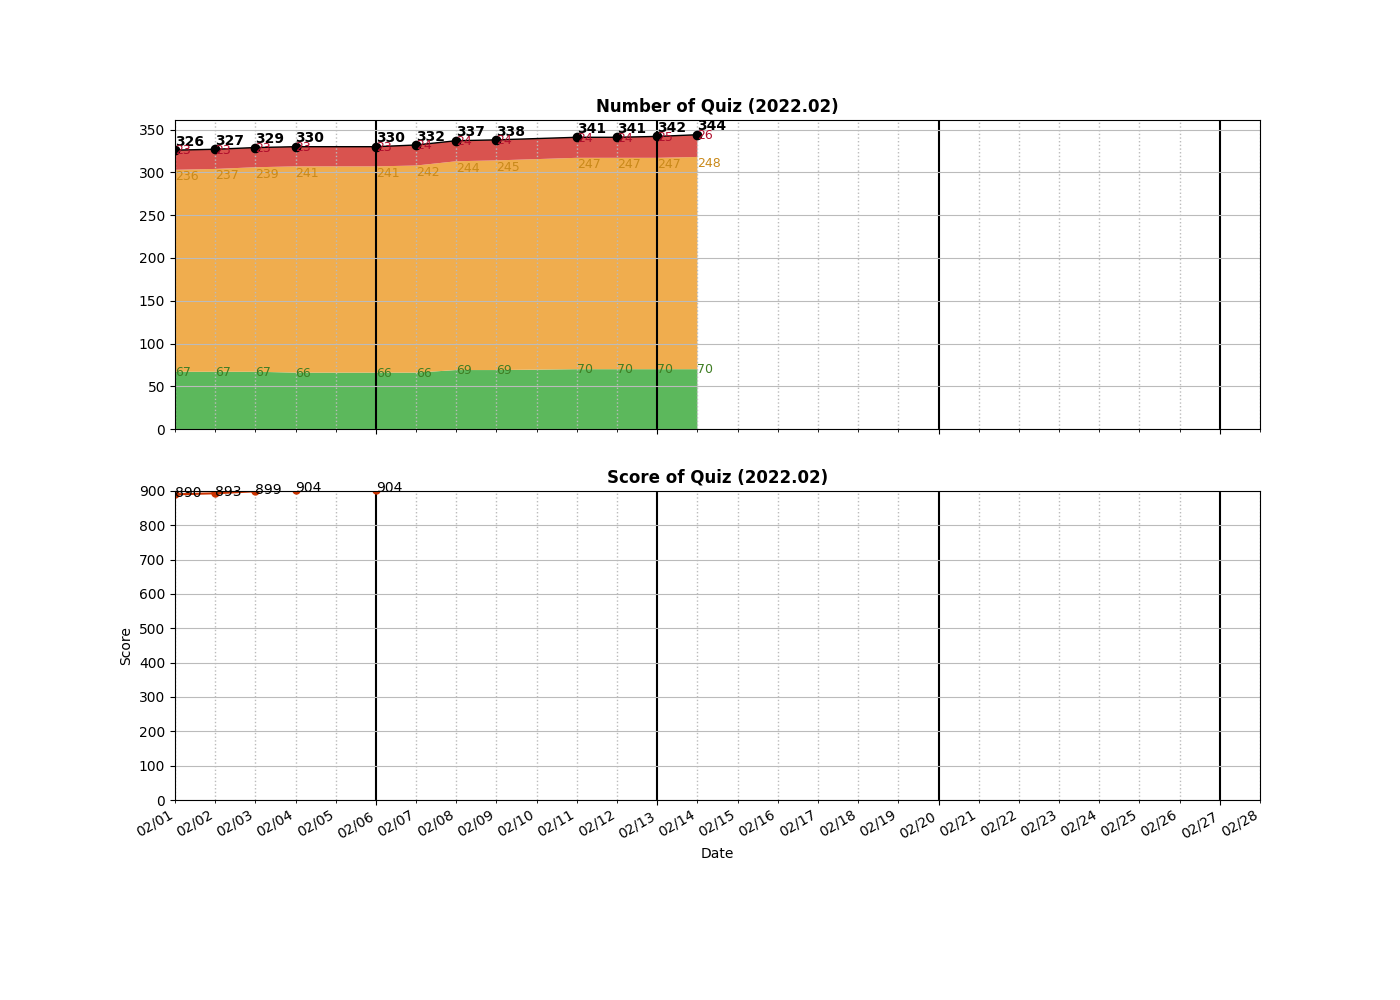
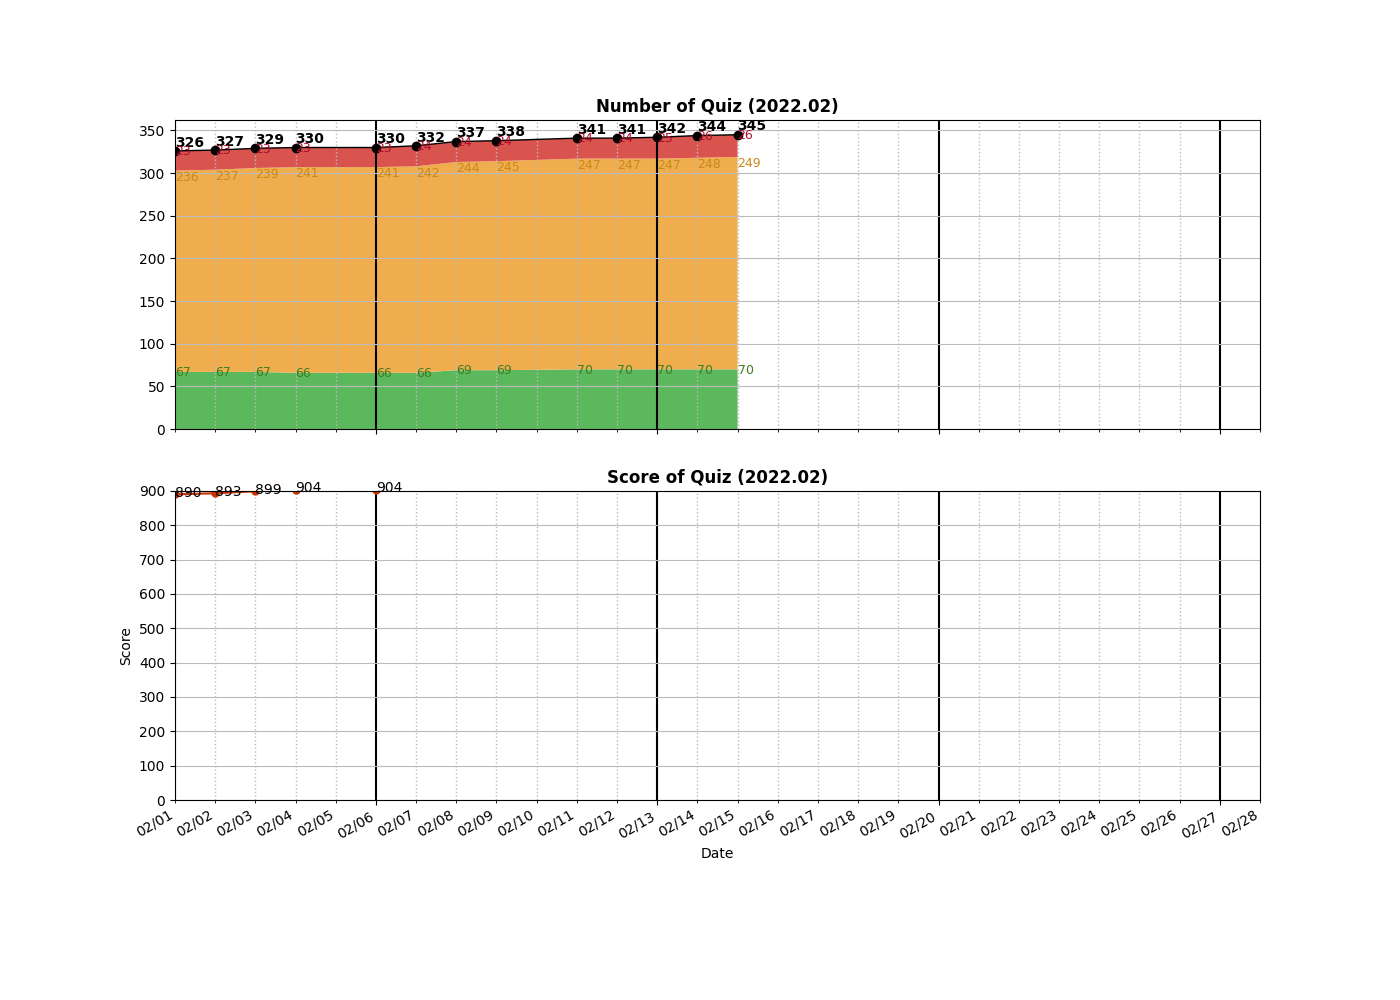
Added __0045__Jump Game II.py

Changed region(s): [[0.0921, 0.124, 0.5529, 0.434]]

diff --git a/algo/DP/__0045__Jump Game II.py b/algo/DP/__0045__Jump Game II.py
@@ -1,0 +1,12 @@
+class Solution:
+    
+    #2022/02/14
+    #DP[O(n2): 5%]
+    def jump(self, nums: List[int]) -> int:
+        dp = [inf] * len(nums)
+        dp[0] = 0
+        for i, v in enumerate(nums):
+            for j in range(1, v+1):
+                if i + j < len(nums):
+                    dp[i+j] = min(dp[i+j], dp[i] + 1)
+        return dp[-1]

diff --git a/README.md b/README.md
@@ -103,6 +103,7 @@ algo
 ├── DP
 │   ├── __0010__Regular Expression Matching.py
 │   ├── __0044__Wildcard Matching.py
+│   ├── __0045__Jump Game II.py
 │   ├── __0055__Jump Game.py
 │   ├── __0062__Unique Paths.py
 │   ├── __0063__Unique Paths II.py
@@ -134,7 +135,6 @@ algo
 │   ├── __0935__Knight Dialer.py
 │   ├── __1014__Best Sightseeing Pair.py
 │   ├── __1025__Divisor Game.py
-│   ├── __1029__Two City Scheduling.py
 │   ├── __1048__Longest String Chain.py
 │   ├── __1049__Last Stone Weight II.py
 │   ├── __1130__Minimum Cost Tree From Leaf Values.py
@@ -171,6 +171,8 @@ algo
 │   ├── __1319__Number of Operations to Make Network Connected.py
 │   ├── __1557__Minimum Number of Vertices to Reach All Nodes.py
 │   └── __2093__Minimum Cost to Reach City With Discounts.py
+├── Greedy
+│   └── __1029__Two City Scheduling.py
 ├── HashMap
 │   ├── __0001__Two Sum.py
 │   ├── __0049__Group Anagrams.py
@@ -386,7 +388,7 @@ algo
 └── _Template
     └── BinarySearch.py
 
-28 directories, 357 files
+29 directories, 358 files
 
 =====================================
 ============= Local Repo ============
@@ -420,6 +422,7 @@ __0039__Combination Sum.py
 __0040__Combination Sum II.py
 __0042__Trapping Rain Water.py
 __0044__Wildcard Matching.py
+__0045__Jump Game II.py
 __0046__Permutations.py
 __0047__Permutations II.py
 __0048__Rotate Image.py
@@ -736,7 +739,7 @@ __2154__Keep Multiplying Found Values by Two.py
 __2155__All Divisions With the Highest Score of a Binary Array.py
 __2156__Find Substring With Given Hash Value.py
 =====================================
-Num of Python Practice:  344
+Num of Python Practice:  345
 
 
 =====================================
@@ -771,6 +774,7 @@ Num of Python Practice:  344
  0040 Combination Sum II
  0042 Trapping Rain Water
  0044 Wildcard Matching
+ 0045 Jump Game II
  0046 Permutations
  0047 Permutations II
  0048 Rotate Image
@@ -1088,10 +1092,10 @@ Num of Python Practice:  344
  2156 Find Substring With Given Hash Value
 =====================================
 Solved / Total (Easy)  :   70 /  546
-Solved / Total (Medium):  248 / 1160
-Solved / Total (Hard)  :   26 /  467
-Solved / Total (All)   :  344 / 2173
-Total Score            :  944
+Solved / Total (Medium):  249 / 1159
+Solved / Total (Hard)  :   26 /  468
+Solved / Total (All)   :  345 / 2173
+Total Score            :  947
 =====================================
 
 ```
